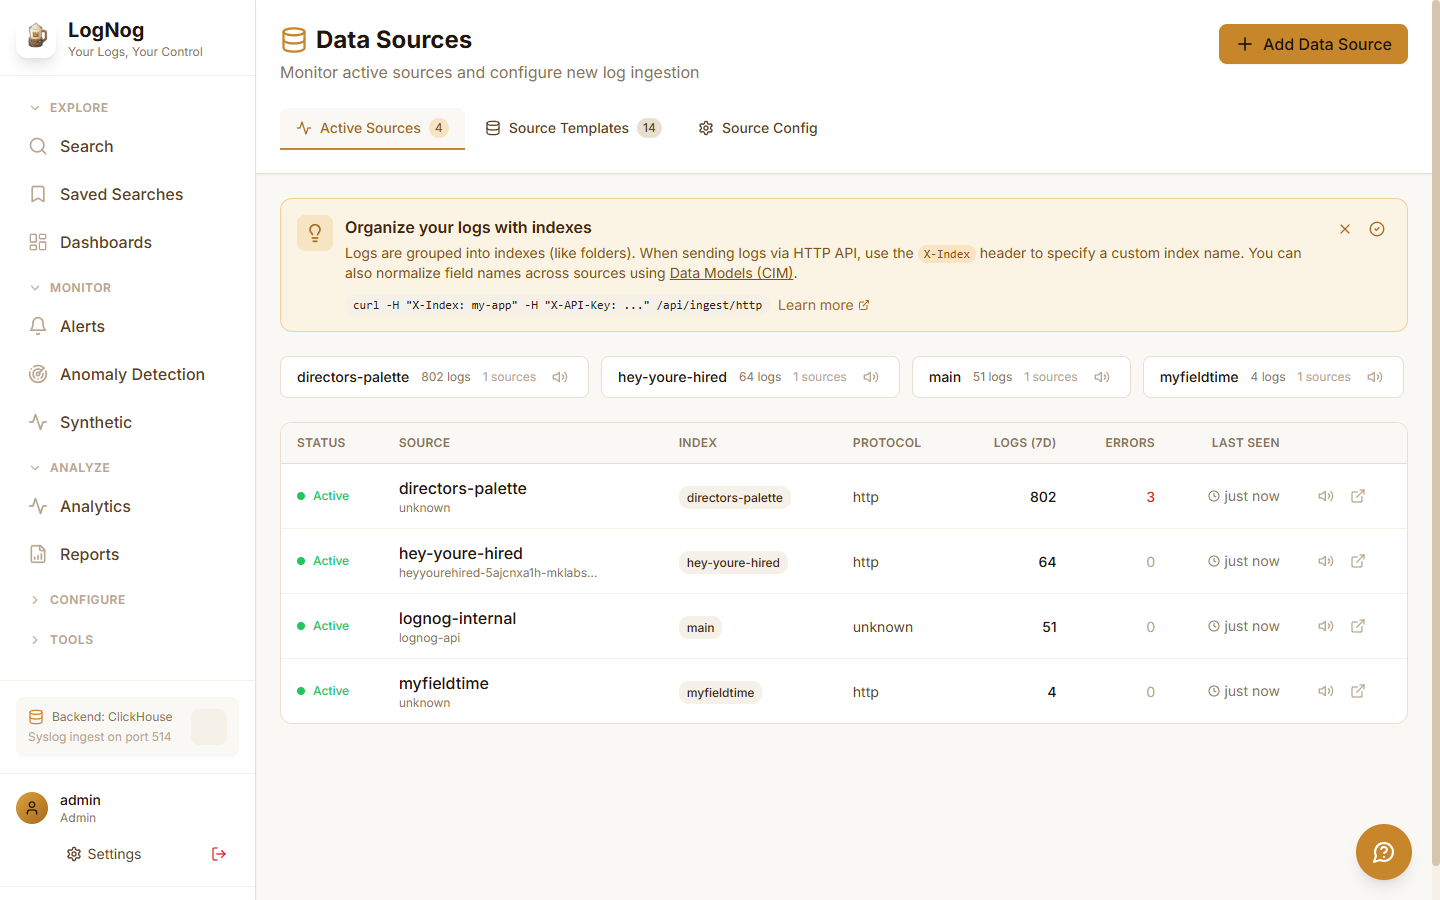
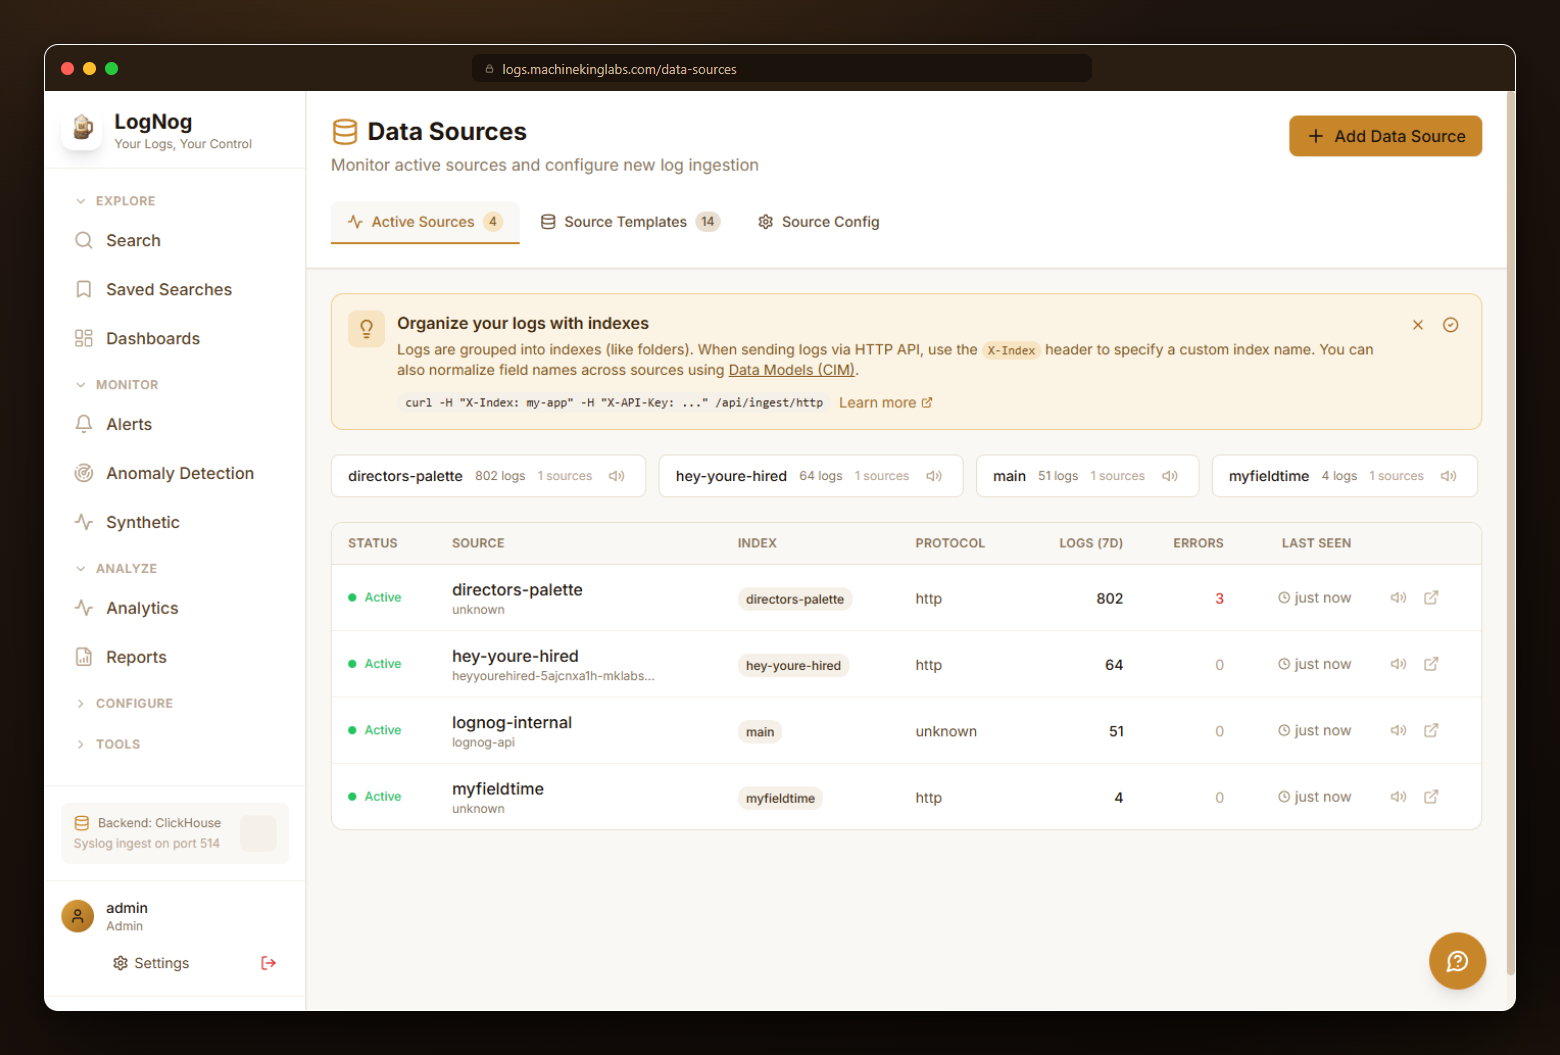
feat(ui): 'For AI agents' link on landing + browser-framed guide screenshots
- Landing page footer: a Bot-icon 'For AI agents' link to /api/ingest/guide,
  so the agent integration guide is discoverable from the public landing page.
- Guide screenshots: reframed the 8 full-page captures inside a polished
  macOS-style browser window on a warm on-brand gradient (real UI kept, just
  made to look like it's on a screen) instead of flat viewport grabs. Composited
  deterministically via a browser-frame mockup — faithful to the actual UI
  (AI image-gen would have distorted it). sidebar-nav left as a crop.

diff --git a/ui/src/pages/LandingPage.tsx b/ui/src/pages/LandingPage.tsx
@@ -14,6 +14,7 @@ import {
   Container,
   HardDrive,
   Home,
+  Bot,
 } from 'lucide-react';
 
 const features = [
@@ -265,6 +266,15 @@ export default function LandingPage() {
             </div>
             <div className="flex items-center gap-5 text-sm text-nog-400">
               <Link to="/docs" className="transition hover:text-nog-100">Docs</Link>
+              <a
+                href="/api/ingest/guide"
+                target="_blank"
+                rel="noreferrer"
+                title="Integration guide + API for AI coding agents"
+                className="flex items-center gap-1.5 transition hover:text-honey-400"
+              >
+                <Bot className="h-4 w-4" /> For AI agents
+              </a>
               <a href="https://github.com/taskmasterpeace/lognog" target="_blank" rel="noreferrer" className="transition hover:text-nog-100">GitHub</a>
               <span className="flex items-center gap-1.5"><Lock className="h-3.5 w-3.5" /> Self-hosted</span>
             </div>
